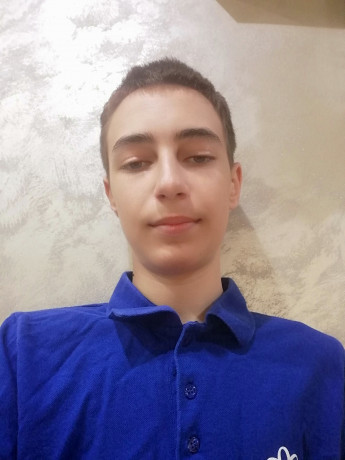
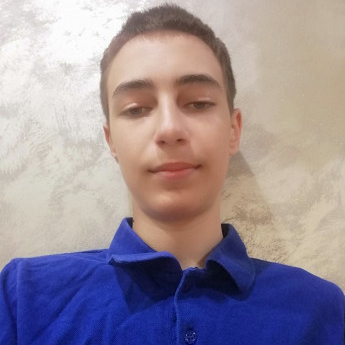
small changes to css and images

diff --git a/Site/Our-team.html b/Site/Our-team.html
@@ -16,7 +16,7 @@
   <div class="row">
     <div class="column">
       <div class="card">
-        <img src="Images/Team photos/Galin.jpeg" alt="Game Developer" style="width:100%; height: 500px;">
+        <img src="Images/Team photos/Galin.jpeg" alt="Game Developer" style="width:100%; height: 500px;" class="team-photos">
         <div class="container">
           <h2>Galin Georgiev</h2>
           <p class="title">Game Developer</p>
@@ -28,7 +28,7 @@
   
     <div class="column">
       <div class="card">
-        <img src="Images/Team photos/Maksim.jpg" alt="Web Developer" style="width:100%; height: 500px;">
+        <img src="Images/Team photos/Maksim.jpg" alt="Web Developer" style="width:100%; height: 500px;" class="team-photos">
         <div class="container">
           <h2>Maksim Vasilev</h2>
           <p class="title">Web Developer</p>
@@ -40,7 +40,7 @@
     
     <div class="column">
       <div class="card">
-        <img src="Images/Team photos/Vesela.jpg" alt="Designer" style="width:100%; height: 500px;">
+        <img src="Images/Team photos/Vesela.jpg" alt="Designer" style="width:100%; height: 500px;" class="team-photos">
         <div class="container">
           <h2>Vesela Dekova</h2>
           <p class="title">Designer</p>
@@ -54,7 +54,7 @@
   <div class="row">
     <div class="column">
       <div class="card">
-        <img src="Images/Team photos/Martin.jpg" alt="Back-end Developer" style="width:100%; height: 500px;">
+        <img src="Images/Team photos/Martin.jpg" alt="Back-end Developer" style="width:100%; height: 500px;" class="team-photos">
         <div class="container">
           <h2>Martin Martinov</h2>
           <p class="title">Back-end Developer</p>
@@ -66,7 +66,7 @@
     
     <div class="column" id="Emily-container">
       <div class="card">
-        <img src="Images/Team photos/Emily.jpg" alt="Scrum Trainer" style="width:100%; height: 500px;">
+        <img src="Images/Team photos/Emily.jpg" alt="Scrum Trainer" style="width:100%; height: 500px;" class="team-photos">
         <div class="container">
           <h2>Emily Kehaykova</h2>
           <p class="title">Scrum Trainer</p>

diff --git a/Site/Styles/styles.css b/Site/Styles/styles.css
@@ -144,4 +144,8 @@ body {
     text-align: center;
     width: 105%;
   }
-}
+  .team-photos{
+    width: 300px;
+    height: 300px;
+  }
+  }
